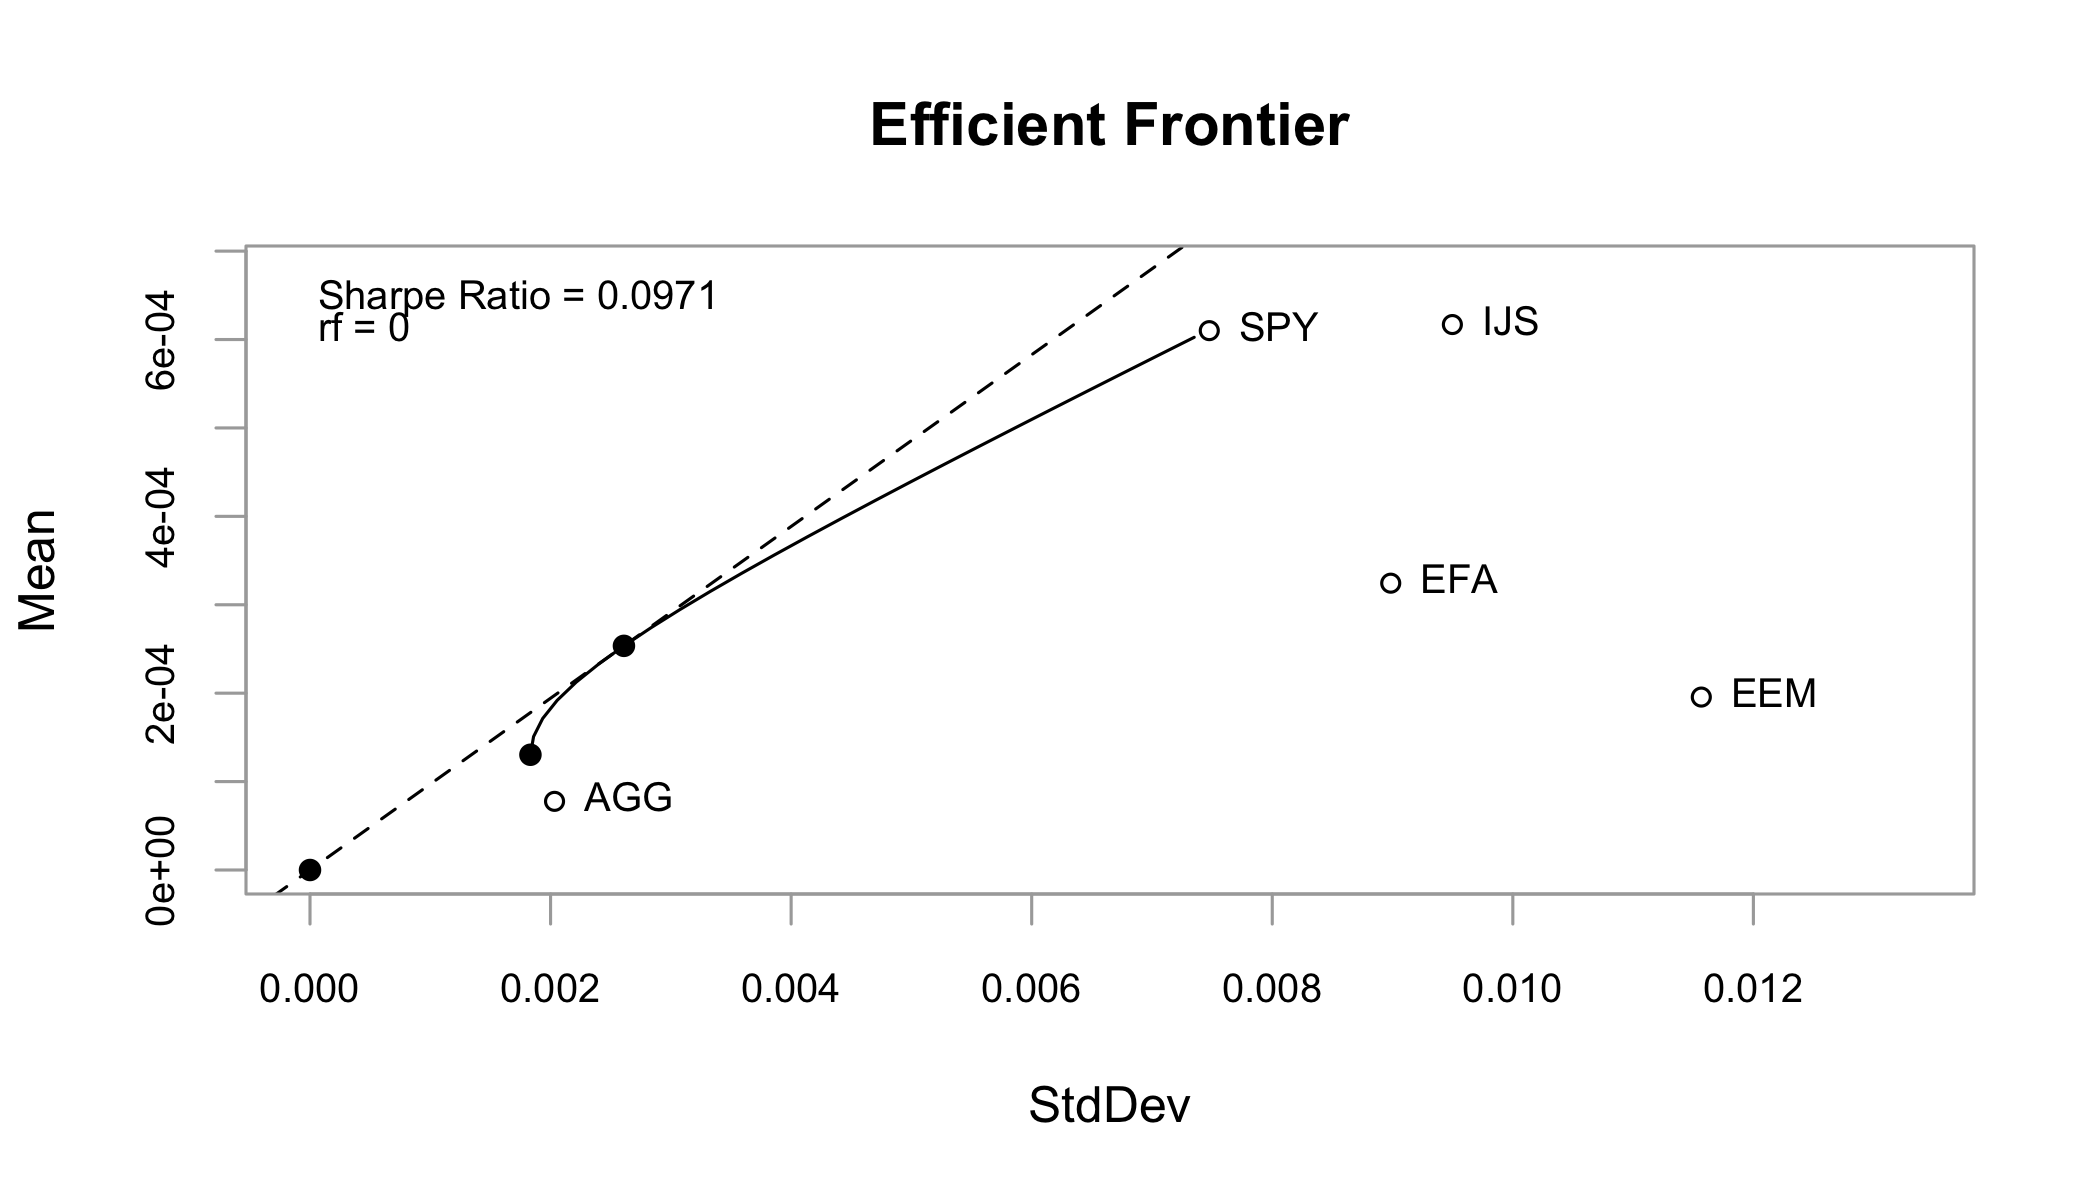
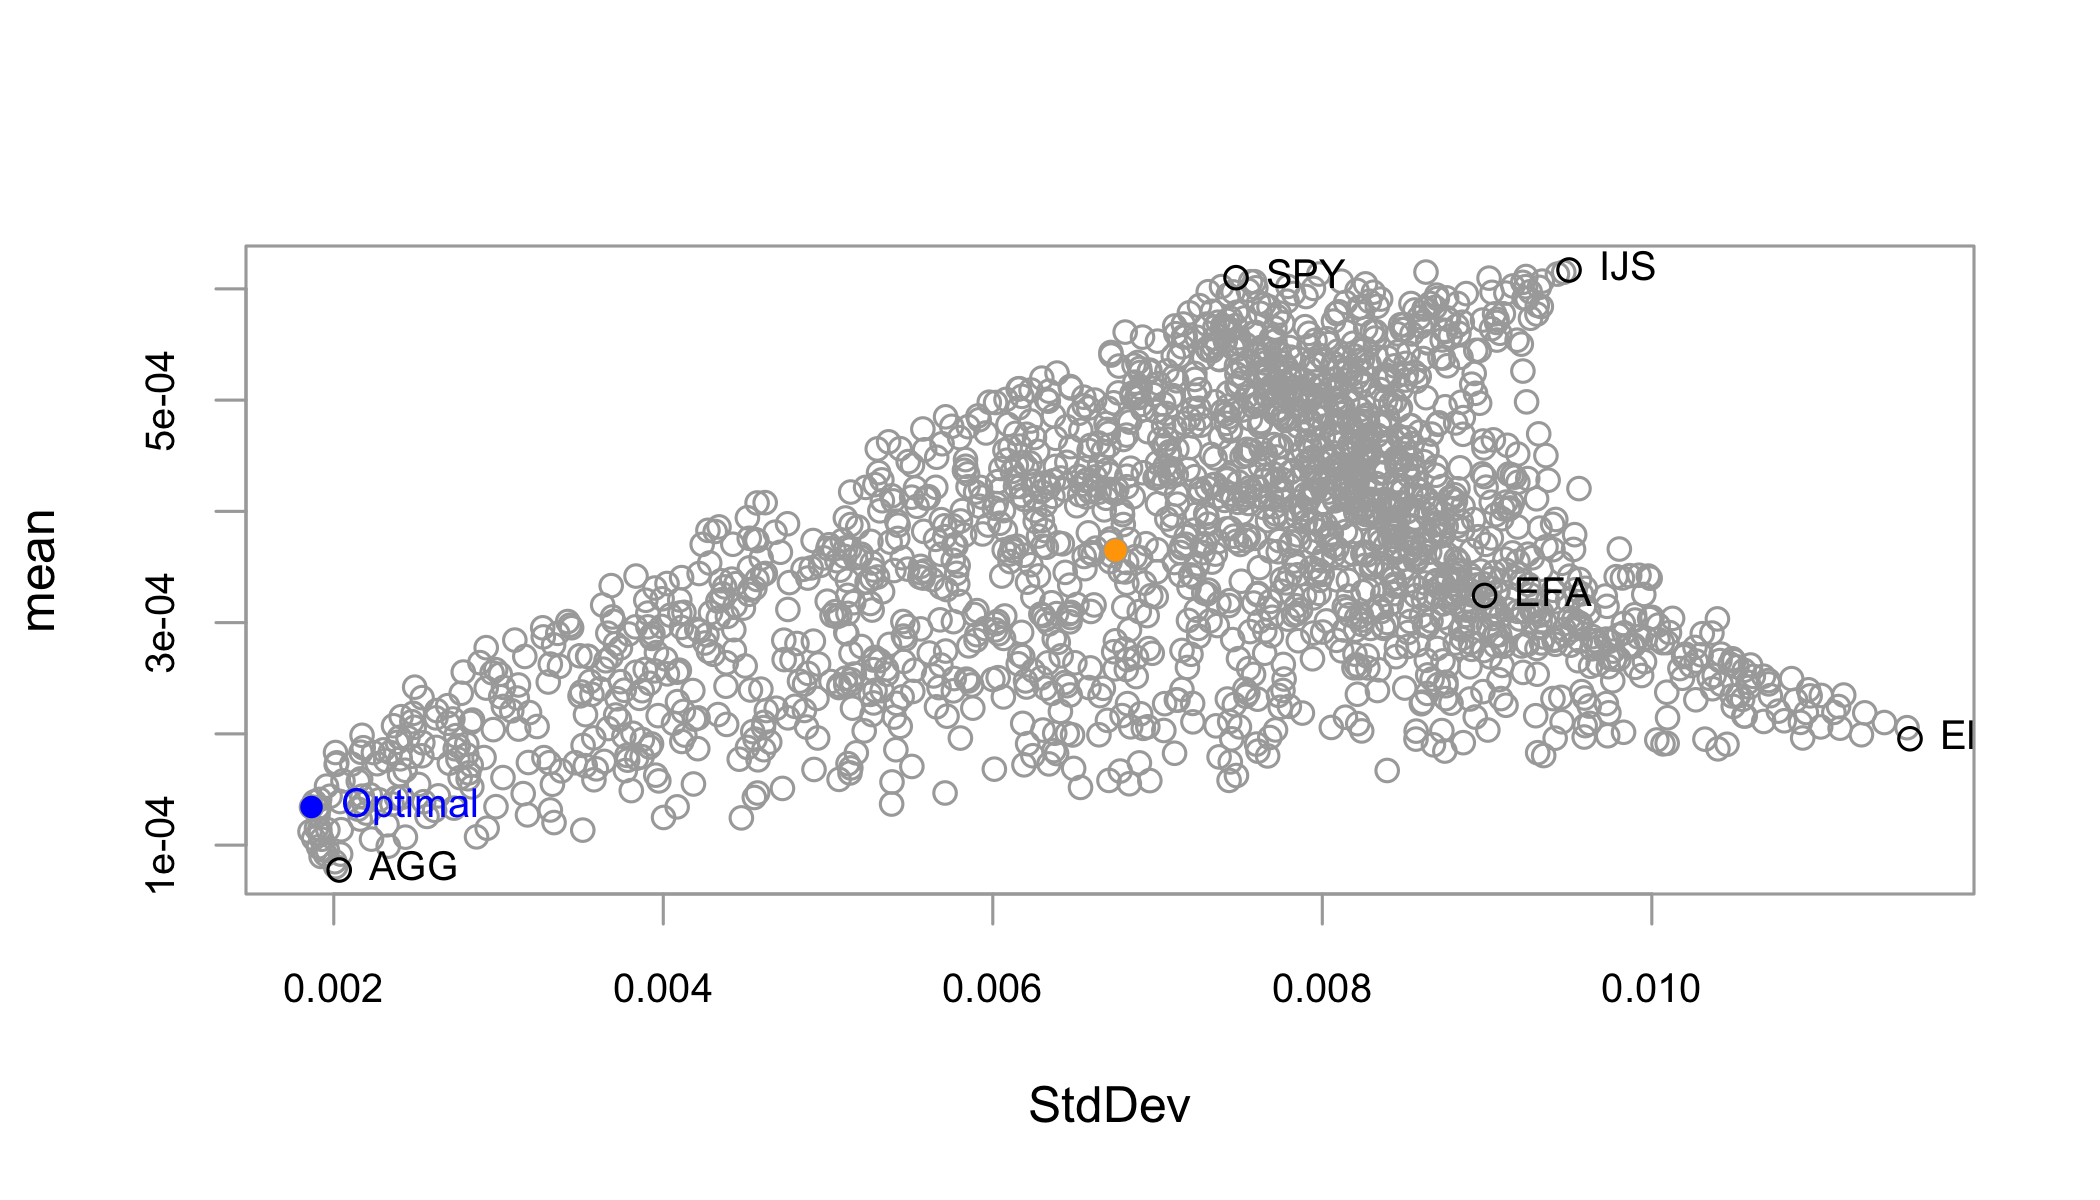
lec11

diff --git a/11-portfolio-analysis/11-portfolio-analysis.html b/11-portfolio-analysis/11-portfolio-analysis.html
@@ -1,8 +1,8 @@
 <!DOCTYPE html>
-<html>
+<html xmlns="http://www.w3.org/1999/xhtml" lang="" xml:lang="">
   <head>
     <title>Lecture 11: Intro to Portfolio Analysis</title>
-    <meta charset="utf-8">
+    <meta charset="utf-8" />
     <meta name="author" content="Adam Aiken | Elon University" />
     <link href="libs/remark-css/default.css" rel="stylesheet" />
     <link href="libs/remark-css/metropolis.css" rel="stylesheet" />
@@ -45,6 +45,7 @@ Open up your R Project for this class. You can do this under File:Open Project o
 
 
 ```r
+library(here)
 library(tidyverse)
 library(xts)
 library(MASS)
@@ -59,14 +60,13 @@ library(DEoptim)
 
 - Let's load in our general set of R packages. The last three are specifically for dealing with financial data and come with many different built-in tools. If one doesn't load, then that just means that you need to install it.
 
-- **Project Idea**: Explore different risk measures and portfolio optmization techniques. Use package features that we don't get to in class.
 
 ---
 # Getting our data
 
 
 ```r
-etf &lt;- read_csv("data/etf-reproducible-finance.csv")
+etf &lt;- read_csv(here::here("11-portfolio-analysis", "data", "etf-reproducible-finance.csv"))
 ```
 
 ```
@@ -83,7 +83,7 @@ etf &lt;- read_csv("data/etf-reproducible-finance.csv")
 
 - Let's read in our ETF data that we looked at a while back. This data is in a traditional **time series** format, with each column representing a security. 
 
-- Your last DataCamp (due May 6th) discusses a variety of portfolio analysis tools.
+- Your last DataCamp module discusses a variety of portfolio analysis tools.
 
 
 ---
@@ -134,8 +134,8 @@ The `PortfolioAnalytics` package is going to want our returns in a `xts` object.
 
 ```r
   ggplot(etf, aes(sample = SPY)) +
-  stat_qq() + 
-  stat_qq_line()
+    stat_qq() + 
+    stat_qq_line()
 ```
 
 A QQ plot compares a sample to a theoretical distribution. In this example, if stock returns are normally distributied (i.e. exhibit no skewness or excess kurtosis), then returns should line up on the QQ line.
@@ -147,9 +147,9 @@ quantile(etf$SPY,probs=c(0.001, 0.01, 0.25, 0.50, 0.75, 0.99, 0.999))
 
 ```
 ##          0.1%            1%           25%           50%           75% 
-## -0.0353366498 -0.0214325257 -0.0027821939  0.0006314354  0.0046407744 
+## -0.0347174773 -0.0212044745 -0.0027783271  0.0006316348  0.0046515595 
 ##           99%         99.9% 
-##  0.0193581287  0.0252210031
+##  0.0195467134  0.0255417543
 ```
 
 
@@ -200,7 +200,8 @@ params_t &lt;- as.list(MASS::fitdistr(etf$SPY, "t")$estimate)
 
 ---
 # Finding parameters of a distribution (cont.)
-
+Note that the parameters are saved in the global environment as **lists**. Here's more from DataCamp on [data types in R](https://www.datacamp.com/community/tutorials/data-types-in-r). We've used the main four: vectors, matrices, data frames (tibbles), and lists.
+.code-small[
 
 ```r
 params_normal
@@ -208,11 +209,14 @@ params_normal
 
 ```
 ## $mean
-## [1] 0.0005819253
+## [1] 0.0006100607
 ## 
 ## $sd
-## [1] 0.007480572
+## [1] 0.007473388
 ```
+]
+
+.code-small[
 
 ```r
 params_t
@@ -220,14 +224,15 @@ params_t
 
 ```
 ## $m
-## [1] 0.0008187496
+## [1] 0.000820387
 ## 
 ## $s
-## [1] 0.005277866
+## [1] 0.005262814
 ## 
 ## $df
-## [1] 3.515251
+## [1] 3.469097
 ```
+]
 ---
 
 # A better QQ plot
@@ -245,7 +250,7 @@ ggplot(etf, aes(sample = SPY)) +
 
 # A better QQ plot (cont.)
 
-&lt;img src="11-portfolio-analysis_files/figure-html/unnamed-chunk-14-1.png" style="display: block; margin: auto;" /&gt;
+&lt;img src="11-portfolio-analysis_files/figure-html/unnamed-chunk-15-1.png" style="display: block; margin: auto;" /&gt;
 
 
 ---
@@ -332,11 +337,11 @@ cov(etf)
 
 ```
 ##               SPY           EFA           IJS          EEM           AGG
-## SPY  5.600348e-05  5.663246e-05  5.937921e-05 6.455518e-05 -2.572877e-06
-## EFA  5.663246e-05  8.141569e-05  6.055921e-05 8.430319e-05 -1.787818e-06
-## IJS  5.937921e-05  6.055921e-05  9.025904e-05 7.015678e-05 -3.714983e-06
-## EEM  6.455518e-05  8.430319e-05  7.015678e-05 1.340944e-04  3.274944e-07
-## AGG -2.572877e-06 -1.787818e-06 -3.714983e-06 3.274944e-07  4.135723e-06
+## SPY  5.589596e-05  5.635702e-05  5.924626e-05 6.437862e-05 -2.570665e-06
+## EFA  5.635702e-05  8.072904e-05  6.028077e-05 8.382423e-05 -1.766555e-06
+## IJS  5.924626e-05  6.028077e-05  9.020092e-05 6.995344e-05 -3.715021e-06
+## EEM  6.437862e-05  8.382423e-05  6.995344e-05 1.337950e-04  3.398055e-07
+## AGG -2.570665e-06 -1.766555e-06 -3.715021e-06 3.398055e-07  4.133273e-06
 ```
 
 ```r
@@ -353,7 +358,7 @@ cov_etf[1,1]
 ```
 
 ```
-## [1] 5.600348e-05
+## [1] 5.589596e-05
 ```
 
 The variance-covariance matrix is a crucial input into the portfolio optimization process. Make sure that you can interpret the numbers.
@@ -368,11 +373,11 @@ cor(etf)
 
 ```
 ##            SPY         EFA        IJS        EEM         AGG
-## SPY  1.0000000  0.83869468  0.8351828 0.74493468 -0.16905801
-## EFA  0.8386947  1.00000000  0.7064489 0.80683473 -0.09743018
-## IJS  0.8351828  0.70644895  1.0000000 0.63770365 -0.19228069
-## EEM  0.7449347  0.80683473  0.6377037 1.00000000  0.01390666
-## AGG -0.1690580 -0.09743018 -0.1922807 0.01390666  1.00000000
+## SPY  1.0000000  0.83896326  0.8343827 0.74444295 -0.16912515
+## EFA  0.8389633  1.00000000  0.7064126 0.80655623 -0.09670864
+## IJS  0.8343827  0.70641263  1.0000000 0.63677141 -0.19240161
+## EEM  0.7444430  0.80655623  0.6367714 1.00000000  0.01444985
+## AGG -0.1691252 -0.09670864 -0.1924016 0.01444985  1.00000000
 ```
 
 ```r
@@ -389,7 +394,7 @@ cor_etf[3,2] #3rd row, 2nd column
 ```
 
 ```
-## [1] 0.7064489
+## [1] 0.7064126
 ```
 
 ---
@@ -423,7 +428,7 @@ portfolio expected return for a given amount of risk.
   
 - Subject to different types of **constraints**, such as return targets, no shorting, and full investment.
   
-- You've seen this in Investments. You've maybe seen this in Excel using SOLVER. Let's use `PortfolioAnalytics` and have some fun.
+- You've seen this in Investments. You've maybe seen this in Excel using SOLVER. Let's use [PortfolioAnalytics package](https://cran.r-project.org/web/packages/PortfolioAnalytics/index.html) and have some fun.
 
 ---
 # PortfolioAnalytics
@@ -443,7 +448,7 @@ class(port_spec_ret)
 port_spec_ret &lt;- add.objective(portfolio = port_spec_ret, type = "risk", 
                                name = "StdDev")
 # Max return given constraint below
-port_spec_ret &lt;- add.objective(portfolio=port_spec_ret, type="return", name="mean")
+port_spec_ret &lt;- add.objective(portfolio=port_spec_ret, type = "return", name = "mean")
 
 #Weights sum to 1
 port_spec_ret &lt;- add.constraint(portfolio = port_spec_ret, type = "full_investment")
@@ -516,7 +521,7 @@ optimize.portfolio(R = etf, portfolio = port_spec_ret,
 ## 
 ## Optimal Weights:
 ##    SPY    EFA    IJS    EEM    AGG 
-## 0.8382 0.0000 0.0000 0.0000 0.1618 
+## 0.7933 0.0000 0.0000 0.0000 0.2067 
 ## 
 ## Objective Measure:
 ##  mean 
@@ -524,7 +529,7 @@ optimize.portfolio(R = etf, portfolio = port_spec_ret,
 ## 
 ## 
 ##   StdDev 
-## 0.006226
+## 0.005874
 ```
 
 ---
@@ -540,11 +545,11 @@ port_spec_random &lt;- portfolio.spec(colnames(etf)) #Declares a portfolio objec
 port_spec_random &lt;- add.objective(portfolio = port_spec_random, type = "risk",
                                   name = "StdDev")
 # Max return
-port_spec_random &lt;- add.objective(portfolio = port_spec_random, type="return", 
-                                  name="mean")
+port_spec_random &lt;- add.objective(portfolio = port_spec_random, type = "return", 
+                                  name = "mean")
 
 #Weights sum to 1, but with a little room for error given our method
-port_spec_random &lt;- add.constraint(portfolio = port_spec_random, type="weight_sum", 
+port_spec_random &lt;- add.constraint(portfolio = port_spec_random, type = "weight_sum", 
                                    min_sum = 0.99, max_sum = 1.01)
 #No shorting
 port_spec_random &lt;- add.constraint(portfolio = port_spec_random, type = "long_only")
@@ -561,6 +566,8 @@ opt_random &lt;- optimize.portfolio(etf, portfolio = port_spec_random,
 optimize_method = "random", trace = TRUE, search_size = 2000)
 ```
 
+Why do this? Rather than "solve" for the optimal, we'll just plot a bunch of portfolios and see which one is best. You'll see the efficient frontier as the upper-left edge of the random portfolios. This is the nice thing about computers - when you don't want to do a lot of fancy math, you can sometimes just produce thousands of random solutions and approximate the answer.
+
 ---
 # Optimization random portfolios
 
@@ -569,7 +576,7 @@ chart.RiskReward(opt_random, risk.col = "StdDev", return.col = "mean",
                 chart.assets = TRUE)
 ```
 
-&lt;img src="11-portfolio-analysis_files/figure-html/unnamed-chunk-31-1.png" width="100%" style="display: block; margin: auto;" /&gt;
+&lt;img src="11-portfolio-analysis_files/figure-html/unnamed-chunk-32-1.png" width="100%" style="display: block; margin: auto;" /&gt;
 
 ---
 # Generate the efficient frontier
@@ -583,7 +590,7 @@ chart.EfficientFrontier(meanvar_ef, match.col = "StdDev", tangent.line = TRUE,
                         type = "l" )
 ```
 
-&lt;img src="11-portfolio-analysis_files/figure-html/unnamed-chunk-32-1.png" width="80%" style="display: block; margin: auto;" /&gt;
+&lt;img src="11-portfolio-analysis_files/figure-html/unnamed-chunk-33-1.png" width="80%" style="display: block; margin: auto;" /&gt;
 
 ---
 # Inspecting our object
@@ -658,19 +665,20 @@ chart.EfficientFrontier(meanvar_ef, match.col = "StdDev", chart.assets = FALSE,
                         rf = 0.025)
 ```
 
-&lt;img src="11-portfolio-analysis_files/figure-html/unnamed-chunk-35-1.png" width="80%" style="display: block; margin: auto;" /&gt;
+&lt;img src="11-portfolio-analysis_files/figure-html/unnamed-chunk-36-1.png" width="80%" style="display: block; margin: auto;" /&gt;
 
 ---
 # Next Up...
 
 - **Think about project topics!** Maybe more advanced portfolio optimization? Something about risk management? Ever heard of shrinkage estimators? Bayesian techniques?
 
-- Don't forget the **DataCamp module due April 22nd and May 6th**. The first is on importing and exporting financial data and will get you your DataCamp badge. The last is on performance analysis and reviews many of the same concepts that we just discussed.
+- Don't forget our last two **DataCamp modules**!. The next is on importing and exporting financial data and will get you your DataCamp badge. The last is on performance analysis and reviews many of the same concepts that we just discussed.
 
 - We will keep going with `tidyquant`, `PerformanceAnalytics`, and `PortfolioAnalytics`. 
 
 - Let's also discuss **risk management** topics, such as value-at-risk and expected shortfall.
     </textarea>
+<style data-target="print-only">@media screen {.remark-slide-container{display:block;}.remark-slide-scaler{box-shadow:none;}}</style>
 <script src="https://remarkjs.com/downloads/remark-latest.min.js"></script>
 <script>var slideshow = remark.create({
 "highlightStyle": "github",
@@ -680,16 +688,74 @@ chart.EfficientFrontier(meanvar_ef, match.col = "StdDev", chart.assets = FALSE,
 if (window.HTMLWidgets) slideshow.on('afterShowSlide', function (slide) {
   window.dispatchEvent(new Event('resize'));
 });
-(function() {
-  var d = document, s = d.createElement("style"), r = d.querySelector(".remark-slide-scaler");
+(function(d) {
+  var s = d.createElement("style"), r = d.querySelector(".remark-slide-scaler");
   if (!r) return;
   s.type = "text/css"; s.innerHTML = "@page {size: " + r.style.width + " " + r.style.height +"; }";
   d.head.appendChild(s);
-})();</script>
+})(document);
+
+(function(d) {
+  var el = d.getElementsByClassName("remark-slides-area");
+  if (!el) return;
+  var slide, slides = slideshow.getSlides(), els = el[0].children;
+  for (var i = 1; i < slides.length; i++) {
+    slide = slides[i];
+    if (slide.properties.continued === "true" || slide.properties.count === "false") {
+      els[i - 1].className += ' has-continuation';
+    }
+  }
+  var s = d.createElement("style");
+  s.type = "text/css"; s.innerHTML = "@media print { .has-continuation { display: none; } }";
+  d.head.appendChild(s);
+})(document);
+// delete the temporary CSS (for displaying all slides initially) when the user
+// starts to view slides
+(function() {
+  var deleted = false;
+  slideshow.on('beforeShowSlide', function(slide) {
+    if (deleted) return;
+    var sheets = document.styleSheets, node;
+    for (var i = 0; i < sheets.length; i++) {
+      node = sheets[i].ownerNode;
+      if (node.dataset["target"] !== "print-only") continue;
+      node.parentNode.removeChild(node);
+    }
+    deleted = true;
+  });
+})();
+// adds .remark-code-has-line-highlighted class to <pre> parent elements
+// of code chunks containing highlighted lines with class .remark-code-line-highlighted
+(function(d) {
+  const hlines = d.querySelectorAll('.remark-code-line-highlighted');
+  const preParents = [];
+  const findPreParent = function(line, p = 0) {
+    if (p > 1) return null; // traverse up no further than grandparent
+    const el = line.parentElement;
+    return el.tagName === "PRE" ? el : findPreParent(el, ++p);
+  };
+
+  for (let line of hlines) {
+    let pre = findPreParent(line);
+    if (pre && !preParents.includes(pre)) preParents.push(pre);
+  }
+  preParents.forEach(p => p.classList.add("remark-code-has-line-highlighted"));
+})(document);</script>
 
 <script>
 (function() {
-  var i, text, code, codes = document.getElementsByTagName('code');
+  var links = document.getElementsByTagName('a');
+  for (var i = 0; i < links.length; i++) {
+    if (/^(https?:)?\/\//.test(links[i].getAttribute('href'))) {
+      links[i].target = '_blank';
+    }
+  }
+})();
+</script>
+
+<script>
+slideshow._releaseMath = function(el) {
+  var i, text, code, codes = el.getElementsByTagName('code');
   for (i = 0; i < codes.length;) {
     code = codes[i];
     if (code.parentNode.tagName !== 'PRE' && code.childElementCount === 0) {
@@ -703,7 +769,8 @@ if (window.HTMLWidgets) slideshow.on('afterShowSlide', function (slide) {
     }
     i++;
   }
-})();
+};
+slideshow._releaseMath(document);
 </script>
 <!-- dynamically load mathjax for compatibility with self-contained -->
 <script>
